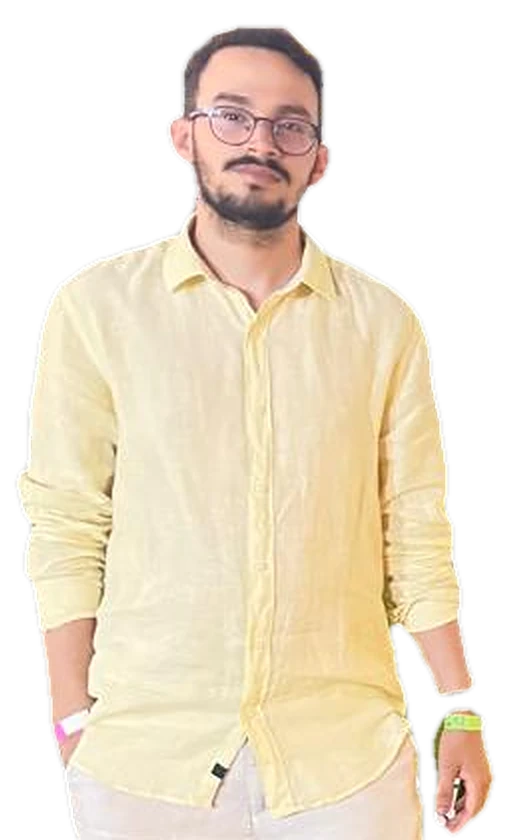
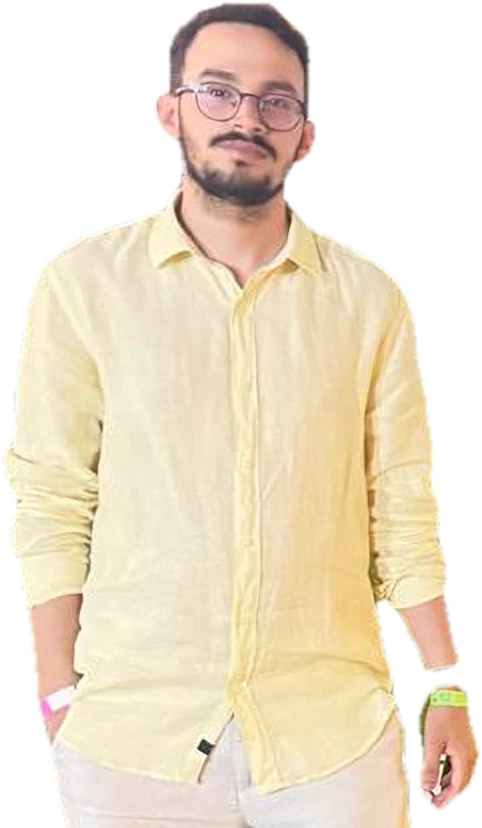
style: foto recortada mais nítida, encaixada no círculo do topo
Claude-Session: https://claude.ai/code/session_01EJNFnJhLVv77t9WN5de2WN

diff --git a/index.html b/index.html
@@ -23,7 +23,7 @@
 <link rel="preconnect" href="https://fonts.googleapis.com" />
 <link rel="preconnect" href="https://fonts.gstatic.com" crossorigin />
 <link href="https://fonts.googleapis.com/css2?family=Bricolage+Grotesque:opsz,wght@12..96,500..800&family=IBM+Plex+Sans:wght@400;500;600&display=swap" rel="stylesheet" />
-<link rel="preload" as="image" href="foto-recorte.webp" />
+<link rel="preload" as="image" href="foto-recorte.webp?v=2" />
 <script type="application/ld+json">
 {"@context":"https://schema.org","@type":"Person","name":"Guilherme Maciel","jobTitle":"Desenvolvedor Full Stack","url":"https://guilhermeads13.github.io/","image":"https://guilhermeads13.github.io/foto.jpg","address":{"@type":"PostalAddress","addressLocality":"Recife","addressRegion":"PE","addressCountry":"BR"},"telephone":"+55-81-99241-9511","alumniOf":{"@type":"CollegeOrUniversity","name":"Universidade Católica de Pernambuco"},"knowsAbout":["Ciência da Computação","Desenvolvimento Full Stack","IA generativa","RAG","IoT"],"sameAs":["https://github.com/GuilhermeADS13","https://www.linkedin.com/in/guilherme-maciel-783688232/","https://www.instagram.com/guilherme_santos1.3/"]}
 </script>
@@ -124,12 +124,13 @@
   .btn svg { width: 18px; height: 18px; flex: none; }
 
   .portrait-card { position: relative; justify-self: center; width: min(360px, 100%); }
-  .portrait { position: relative; aspect-ratio: 4 / 5; }
-  .portrait::before { content: ""; position: absolute; inset: 20% 0 0; border-radius: 34% 66% 58% 42% / 42% 38% 62% 58%; background: radial-gradient(circle at 28% 22%, color-mix(in srgb, var(--accent) 70%, transparent), transparent 62%), linear-gradient(165deg, var(--accent-2), color-mix(in srgb, var(--accent-2) 30%, var(--surface-2)) 78%); border: 1px solid color-mix(in srgb, var(--accent) 40%, var(--line)); box-shadow: var(--shadow); animation: morph 14s ease-in-out infinite; }
-  .portrait::after { content: ""; position: absolute; left: 13%; top: 14%; width: 74%; aspect-ratio: 1; border-radius: 50%; border: 2px dashed color-mix(in srgb, var(--accent) 45%, transparent); animation: spin 40s linear infinite; pointer-events: none; }
-  .portrait img { position: absolute; z-index: 1; left: 50%; bottom: 0; width: 80%; height: auto; transform: translateX(-50%); -webkit-mask-image: linear-gradient(to bottom, #000 80%, transparent 99%); mask-image: linear-gradient(to bottom, #000 80%, transparent 99%); }
+  .portrait { position: relative; aspect-ratio: 4 / 5; container-type: inline-size; }
+  .portrait::before { content: ""; position: absolute; left: 0; right: 0; bottom: 0; aspect-ratio: 1; border-radius: 50%; background: radial-gradient(circle at 30% 25%, color-mix(in srgb, var(--accent) 75%, transparent), transparent 60%), linear-gradient(165deg, var(--accent-2), color-mix(in srgb, var(--accent-2) 35%, var(--surface-2)) 85%); border: 1px solid color-mix(in srgb, var(--accent) 40%, var(--line)); box-shadow: var(--shadow); }
+  .portrait::after { content: ""; position: absolute; left: -6%; bottom: -6%; width: 112%; aspect-ratio: 1; border-radius: 50%; border: 2px dashed color-mix(in srgb, var(--accent) 40%, transparent); animation: spin 50s linear infinite; pointer-events: none; }
+  .portrait .cut { position: absolute; z-index: 1; left: 0; right: 0; top: -24%; bottom: 0; overflow: hidden; border-radius: 0 0 50cqw 50cqw; }
+  .portrait img { position: absolute; left: 8%; bottom: -2%; width: 84%; height: auto; }
   @keyframes morph { 0%, 100% { border-radius: 34% 66% 58% 42% / 42% 38% 62% 58%; } 50% { border-radius: 58% 42% 36% 64% / 56% 62% 38% 44%; } }
-  .tag { position: absolute; display: inline-flex; align-items: center; gap: 8px; padding: 9px 14px; border-radius: 14px; background: color-mix(in srgb, var(--surface) 88%, transparent); -webkit-backdrop-filter: blur(10px); backdrop-filter: blur(10px); border: 1px solid var(--line); font-size: .88rem; font-weight: 600; box-shadow: var(--shadow); white-space: nowrap; animation: float 6s ease-in-out infinite; }
+  .tag { position: absolute; z-index: 2; display: inline-flex; align-items: center; gap: 8px; padding: 9px 14px; border-radius: 14px; background: color-mix(in srgb, var(--surface) 88%, transparent); -webkit-backdrop-filter: blur(10px); backdrop-filter: blur(10px); border: 1px solid var(--line); font-size: .88rem; font-weight: 600; box-shadow: var(--shadow); white-space: nowrap; animation: float 6s ease-in-out infinite; }
   .tag i { width: 26px; height: 26px; border-radius: 8px; display: grid; place-items: center; background: var(--accent-soft); color: var(--accent); font-style: normal; }
   .tag i svg { width: 15px; height: 15px; }
   .tag.t1 { left: -18%; top: 12%; }
@@ -499,7 +500,7 @@
       </div>
 
       <div class="portrait-card appear" style="--d:.3s">
-        <div class="portrait"><img src="foto-recorte.webp" alt="Foto de Guilherme Maciel" width="510" height="840" fetchpriority="high" /></div>
+        <div class="portrait"><span class="cut"><img src="foto-recorte.webp?v=2" alt="Foto de Guilherme Maciel" width="482" height="828" fetchpriority="high" /></span></div>
         <span class="tag t1" aria-hidden="true"><i><svg viewBox="0 0 24 24" fill="none" stroke="currentColor" stroke-width="2.2" stroke-linecap="round" stroke-linejoin="round"><path d="M12 3l1.9 4.6 4.6 1.9-4.6 1.9L12 16l-1.9-4.6L5.5 9.5l4.6-1.9Z"/></svg></i>IA generativa</span>
         <span class="tag t2" aria-hidden="true"><i><svg viewBox="0 0 24 24" fill="none" stroke="currentColor" stroke-width="2.2" stroke-linecap="round" stroke-linejoin="round"><path d="M14 14.76V3.5a2.5 2.5 0 0 0-5 0v11.26a4.5 4.5 0 1 0 5 0Z"/></svg></i>IoT com ESP32</span>
         <span class="tag t3" aria-hidden="true"><i><svg viewBox="0 0 24 24" fill="none" stroke="currentColor" stroke-width="2.2" stroke-linecap="round" stroke-linejoin="round"><path d="M4 7h10M4 12h16M4 17h7"/><circle cx="17" cy="7" r="2"/><circle cx="14" cy="17" r="2"/></svg></i>Automação n8n</span>
@@ -727,7 +728,7 @@
   <section class="contact" id="contato" aria-labelledby="t-contato">
     <div class="wrap">
       <div class="cta reveal">
-        <div class="cta-photo"><img src="foto-recorte.webp" alt="Foto de Guilherme Maciel" width="210" height="210" loading="lazy" /></div>
+        <div class="cta-photo"><img src="foto-recorte.webp?v=2" alt="Foto de Guilherme Maciel" width="210" height="210" loading="lazy" /></div>
         <div>
           <h2 id="t-contato">Vamos conversar?</h2>
           <p>Estou aberto a novas oportunidades com IA, automação e desenvolvimento web. Fale comigo pelo canal que preferir.</p>
